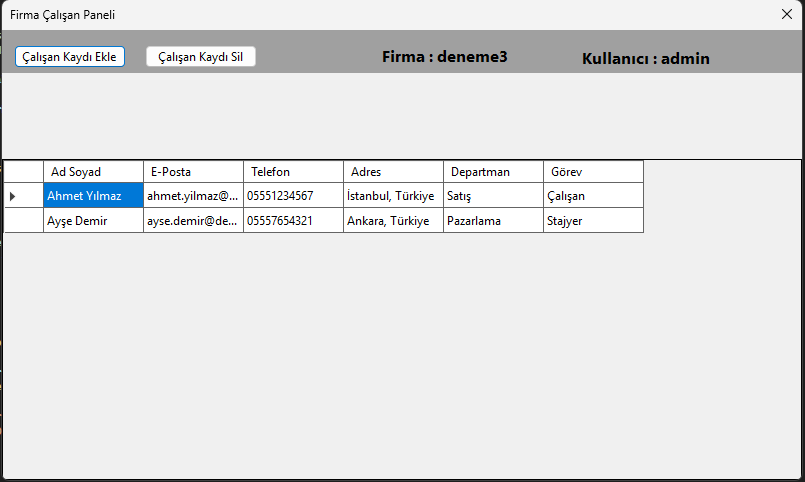
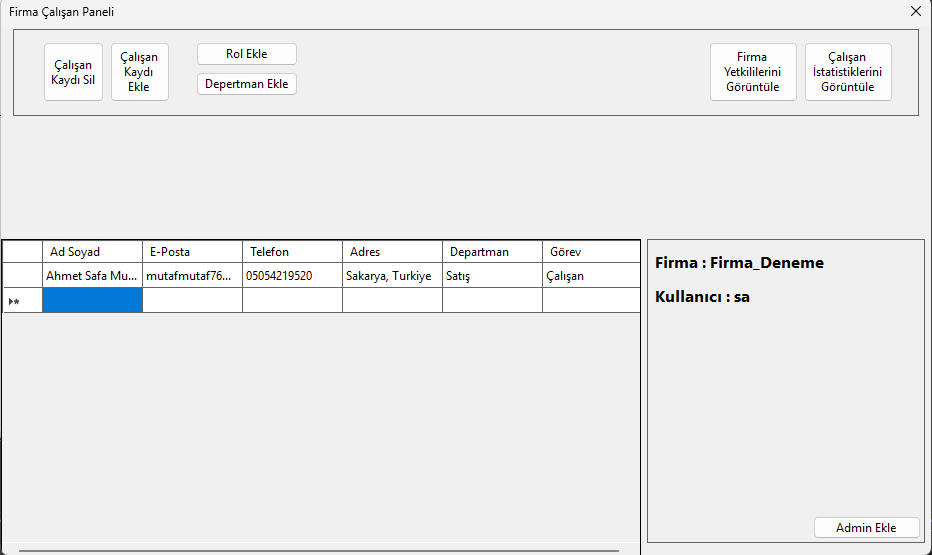
uptade readme

Changed region(s): [[0.0, 0.0, 1.0, 1.0]]

diff --git a/README.md b/README.md
@@ -3,30 +3,19 @@
 Windows form uygulaması (.NET FRAMEWORK) ile yapıldı
 
 ### **Açıklama**
-Uygulama içerisinde bir Ayarlar Sayfası yer almaktadır. Bu sayfa üzerinden:
+Admin ekleme formu eklendi ve işlevsel hale getirildi.
 
-SQL bağlantı bilgilerinizi girerek, bağlantınızı test edebilir,
+Çalışan ekleme ve silme formları oluşturuldu.
 
-Bağlantı başarılı olduktan sonra, firma ismini belirtebilir ve bu firmayı kaydedebilirsiniz.
+Users tablosu sisteme entegre edildi ve kullanıcı işlemleri tanımlandı.
 
-Kaydet butonu ile:
+Firma ile ilgili kodlar optimize edilerek sadeleştirildi.
 
-Firma bilgisi, hem belirttiğiniz veritabanına kaydedilir,
+Klasör yapısı yeniden düzenlendi, dosyalar ayrıştırıldı.
 
-Hem de Windows kayıt defterinde (Registry) CurrentUser\SOFTWARE\Test altında saklanır.
-
-Eğer bu kayıt defteri anahtarı daha önce oluşturulmamışsa, uygulama başlatıldığında sizi bilgilendirerek otomatik olarak oluşturur.
-
-Ayarlar sayfasının sağ alt tarafında ise, uygulamanın o an kullandığı SQL sunucusu ve veritabanı bilgisi anlık olarak gösterilir.
-
-Ayrıca sayfanın sağ üst kısmından hangi server ve veri tabanında işlem yapacağınızı kolayca seçebilirsiniz.
-
-Uygulamanın giriş ekranında, kayıt defterinden çekilen firmalar gösterilir. Giriş için kullanılan kullanıcı adı ve şifre, ayarlar kısmında firmayı eklerken kullandığınız sql username ve sql passworddur.
-
-Kontrol sayfasında ise firmaya ait çalışanların bilgileri gösterilir.
-
-İlerleyen zamanda Çalışan ekleme silme ve kod optimizasonu ile uğraşmayı düşünüyorum.
-![SettingPageSS](/img/settingPage.png)
-![LoginScreenSS](/img/logIn.png)
+Class yapılarında sadeleştirme ve sorumluluk ayrımı yapıldı.
 ![ControlPageSS](/img/controlPage.png)
+![EmployeePageSS](/img/addEmployeePage.png)
+![addAdminPageSS](/img/addAdminPage.png)
+
 
